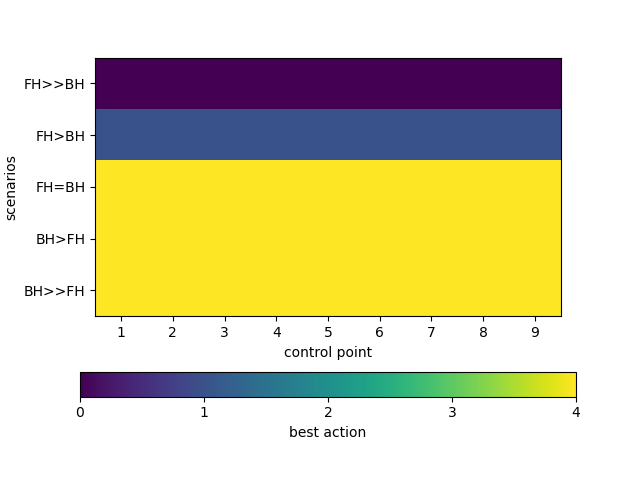
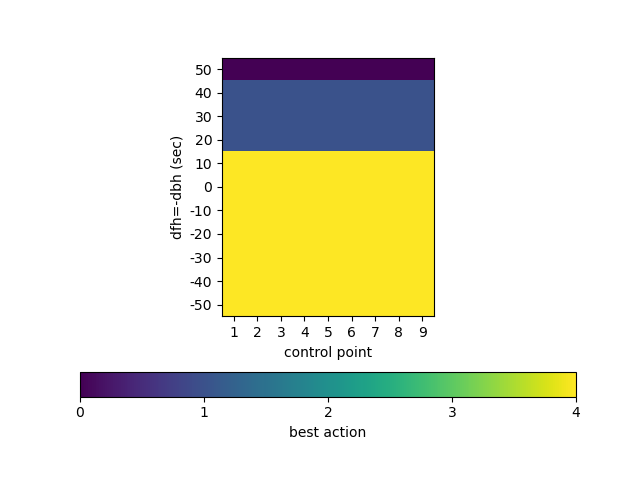
examine policy

diff --git a/src/04_SIMULATION/main.py b/src/04_SIMULATION/main.py
@@ -62,6 +62,8 @@ if __name__ == '__main__':
                    env_name=args.env)
     if not args.load_checkpoint:
 
+        # --------------------------------------------------- TRAINING -----------------------------------------
+
         tstamp_save = time.strftime("%m%d-%H%M")
         fname = args.algo + '_' + args.env + '_alpha' + str(args.lr) + '_' +\
             str(args.n_games) + 'eps_' + tstamp_save
@@ -114,33 +116,36 @@ if __name__ == '__main__':
                 eps_history.append(agent.epsilon)
         plot_learning(steps_array, scores, eps_history, figure_file)
     else:
+
+        # --------------------------------- TESTING ----------------------------------------------------------------
+
         agent.load_models()
-        tstamps = []
-        for j in range(args.n_games):
-            score = 0
-            env = simulation_env.SimulationEnvDeepRL()
-            done = env.reset_simulation()
-            done = env.prep()
-            while not done:
-                if not env.bool_terminal_state:
-                    i = env.bus_idx
-                    trip_id = env.active_trips[i]
-                    all_sars = env.trips_sars[trip_id]
-                    observation = np.array(all_sars[-1][0], dtype=np.float32)
-                    action = agent.choose_action(observation)
-                    env.take_action(action)
-                done = env.prep()
+        # tstamps = []
+        # for j in range(args.n_games):
+        #     score = 0
+        #     env = simulation_env.SimulationEnvDeepRL()
+        #     done = env.reset_simulation()
+        #     done = env.prep()
+        #     while not done:
+        #         if not env.bool_terminal_state:
+        #             i = env.bus_idx
+        #             trip_id = env.active_trips[i]
+        #             all_sars = env.trips_sars[trip_id]
+        #             observation = np.array(all_sars[-1][0], dtype=np.float32)
+        #             action = agent.choose_action(observation)
+        #             env.take_action(action)
+        #         done = env.prep()
+        #
+        #     env.process_results()
+        #     tstamps.append(datetime.now().strftime('%m%d-%H%M%S%f')[:-4])
+        #     path_trajectories = path_to_outs + dir_var + 'trajectories_' + tstamps[-1] + ext_var
+        #     path_sars = path_to_outs + dir_var + 'sars_record_' + tstamps[-1] + ext_var
+        #     post_process.save(path_trajectories, env.trajectories)
+        #     post_process.save(path_sars, env.trips_sars)
+        #
+        # output.get_rl_results(tstamps)
 
-            env.process_results()
-            tstamps.append(datetime.now().strftime('%m%d-%H%M%S%f')[:-4])
-            path_trajectories = path_to_outs + dir_var + 'trajectories_' + tstamps[-1] + ext_var
-            path_sars = path_to_outs + dir_var + 'sars_record_' + tstamps[-1] + ext_var
-            post_process.save(path_trajectories, env.trajectories)
-            post_process.save(path_sars, env.trips_sars)
-
-        output.get_rl_results(tstamps)
-
-        fw_headway_scenarios = np.array([330, 300, 270, 240, 210])
+        fw_headway_scenarios = np.array([320, 310, 300, 290, 280, 270, 260, 250, 240, 230, 220])
         bw_headway_scenarios = np.flip(fw_headway_scenarios, axis=0)
         route_progress_scenarios = np.array([(STOPS.index(s) / len(STOPS)) for s in CONTROLLED_STOPS])
         action_grid = np.zeros(shape=(len(fw_headway_scenarios), len(route_progress_scenarios)))
@@ -161,9 +166,9 @@ if __name__ == '__main__':
         ax.xaxis.set_ticks_position('bottom')
         ax.set_xticklabels(np.arange(1, route_progress_scenarios.size+1))
         ax.set_yticks(y_axis)
-        ax.set_yticklabels(['FH>>BH', 'FH>BH', 'FH=BH', 'BH>FH', 'BH>>FH'])
+        ax.set_yticklabels(np.arange(50, -60, -10))
         ax.set_xlabel('control point')
-        ax.set_ylabel('scenarios')
+        ax.set_ylabel('dfh=-dbh (sec)')
         cbar = fig.colorbar(ms, ticks=np.arange(np.min(action_grid), np.max(action_grid) + 1), orientation='horizontal')
         cbar.ax.set_xlabel('best action')
         path_policy_examination = path_to_outs + dir_figs + 'policy_' + args.env + ext_fig

diff --git a/src/04_SIMULATION/output.py b/src/04_SIMULATION/output.py
@@ -83,7 +83,7 @@ def get_base_control_results(tstamps):
             trajectories_set.append(trajectories)
 
         stops_loc = post_process.get_stop_loc(path_stops_loc)
-        trajectories_header = ['stop_id, arr_t, dep_t, bus_load, pick_count, drop_count, denied_count, hold_sec']
+        trajectories_header = ['stop_id', 'arr_t', 'dep_t', 'load_count', 'ons_count', 'offs_count', 'denied_count', 'hold_sec']
         path_trajectories_write = path_to_outs + dir_csv + 'trajectories_' + t + ext_csv
         path_trajectories_plot = path_to_outs + dir_figs + 'trajectories_' + t + ext_fig
         post_process.write_trajectories(trajectories, path_trajectories_write, label=trajectories_header)
@@ -162,7 +162,7 @@ def get_rl_results(tstamps):
             trajectories_set.append(trajectories)
 
         stops_loc = post_process.get_stop_loc(path_stops_loc)
-        trajectories_header = ['stop_id, arr_t, dep_t, bus_load, pick_count, drop_count, denied_count, hold_sec, skip']
+        trajectories_header = ['stop_id', 'arr_t', 'dep_t', 'load_count', 'ons_count', 'offs_count', 'denied_count', 'hold_sec', 'skip']
         path_trajectories_write = path_to_outs + dir_csv + 'trajectories_' + t + ext_csv
         path_trajectories_plot = path_to_outs + dir_figs + 'trajectories_' + t + ext_fig
         path_sars_write = path_to_outs + dir_csv + 'sars_record_' + t + ext_csv
